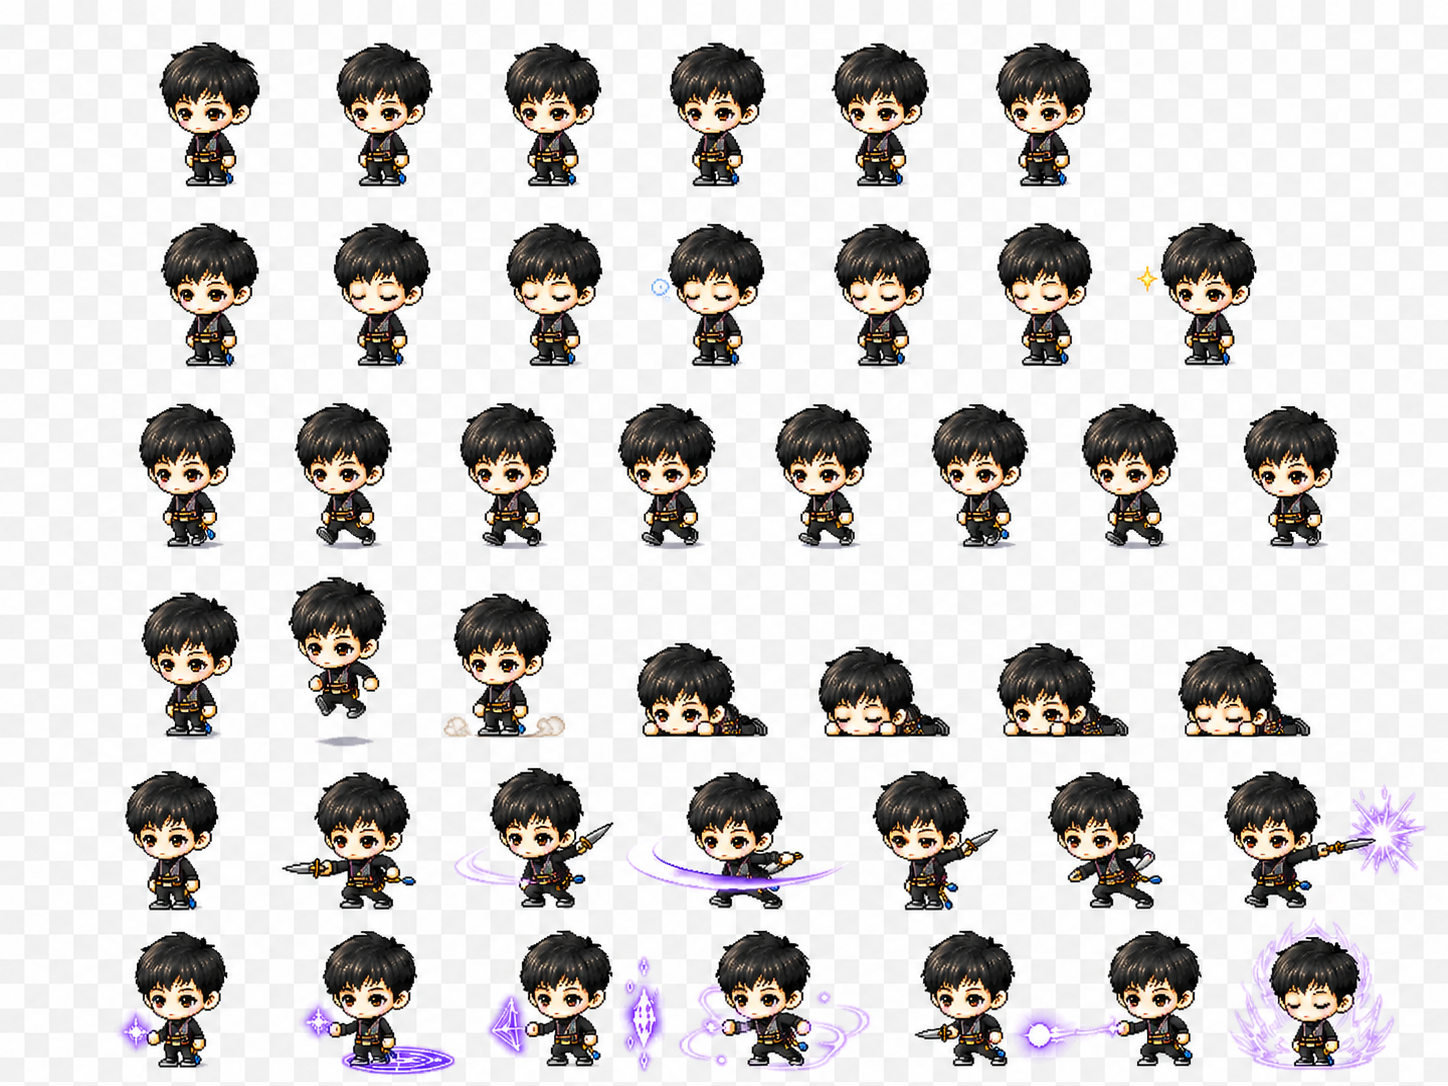
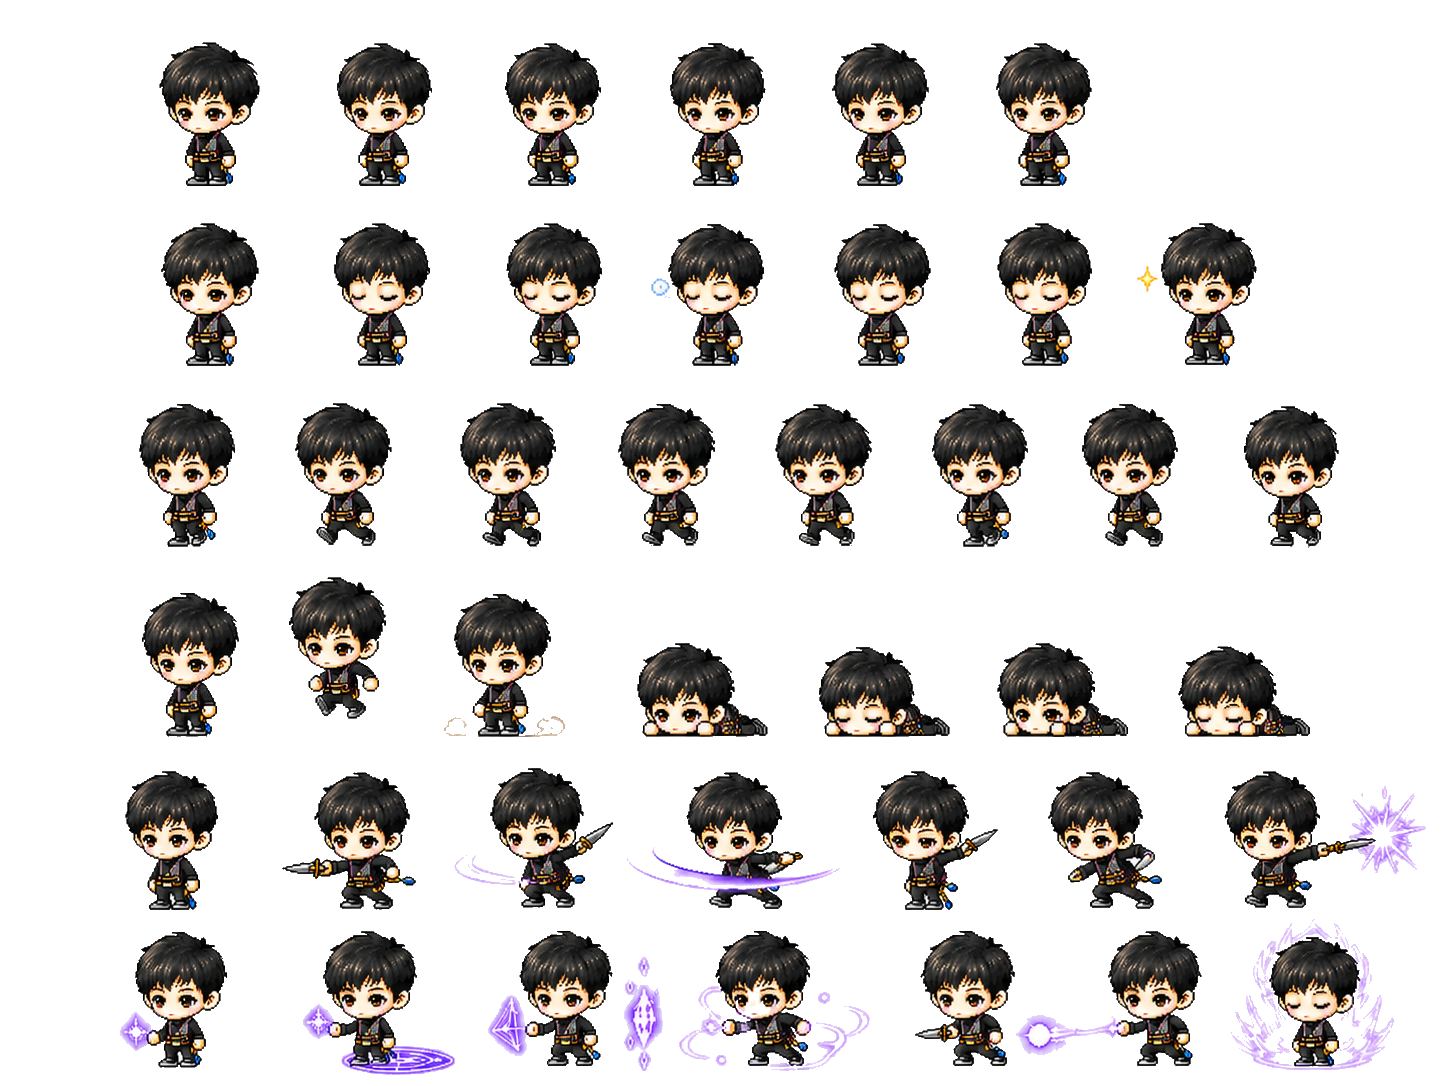
fix: use transparent admin sprite in production

diff --git a/src/main.ts b/src/main.ts
@@ -77,6 +77,7 @@ const BACKGROUND_FLOOR_INTERVAL = 10;
 const BACKGROUND_FADE_DURATION_MS = 320;
 const MULTIPLAYER_SEND_INTERVAL_MS = 80;
 const REMOTE_PLAYER_LERP = 0.34;
+const ENABLE_PHYSICS_DEBUG = import.meta.env.DEV;
 const PLAYER_NAME_SESSION_KEY = 'dongstory-player-name';
 const MAX_CHAT_MESSAGES = 40;
 const PLAYER_VISUAL_FOOT_OFFSET = 5;
@@ -241,7 +242,7 @@ class MainScene extends Phaser.Scene {
   private playerVisual!: Phaser.GameObjects.Sprite;
   private cursors!: Phaser.Types.Input.Keyboard.CursorKeys;
   private jumpKey!: Phaser.Input.Keyboard.Key;
-  private debugKey!: Phaser.Input.Keyboard.Key;
+  private debugKey?: Phaser.Input.Keyboard.Key;
   private debugEnabled = false;
   private platforms!: Phaser.Physics.Arcade.StaticGroup;
   private activePlatformViews = new Map<number, PlatformView>();
@@ -317,7 +318,9 @@ class MainScene extends Phaser.Scene {
 
     this.cursors = this.input.keyboard!.createCursorKeys();
     this.jumpKey = this.input.keyboard!.addKey(Phaser.Input.Keyboard.KeyCodes.SPACE);
-    this.debugKey = this.input.keyboard!.addKey(Phaser.Input.Keyboard.KeyCodes.D);
+    if (ENABLE_PHYSICS_DEBUG) {
+      this.debugKey = this.input.keyboard!.addKey(Phaser.Input.Keyboard.KeyCodes.D);
+    }
 
     this.cameras.main.setBounds(0, 0, WORLD_WIDTH, WORLD_HEIGHT);
     this.cameras.main.startFollow(this.player, true, 0.12, 0.08);
@@ -372,7 +375,7 @@ class MainScene extends Phaser.Scene {
     this.updateRemotePlayerViews();
     this.sendMultiplayerUpdate(this.time.now, body);
 
-    if (Phaser.Input.Keyboard.JustDown(this.debugKey)) {
+    if (this.debugKey && Phaser.Input.Keyboard.JustDown(this.debugKey)) {
       this.setPhysicsDebug(!this.debugEnabled);
     }
   }
@@ -1209,7 +1212,7 @@ const config: Phaser.Types.Core.GameConfig = {
     default: 'arcade',
     arcade: {
       gravity: { x: 0, y: 940 },
-      debug: true,
+      debug: ENABLE_PHYSICS_DEBUG,
     },
   },
   scene: MainScene,